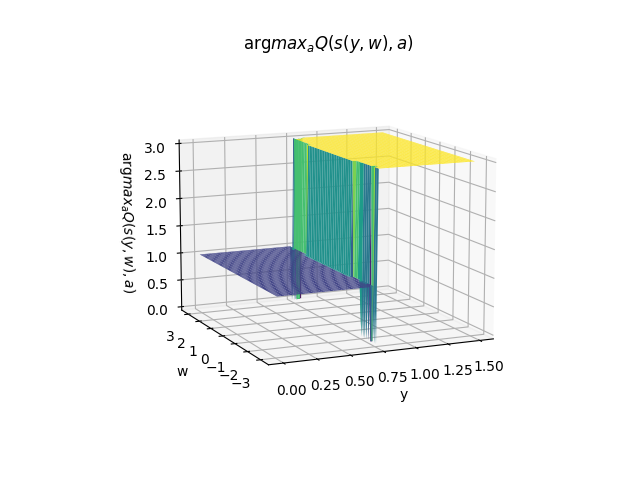
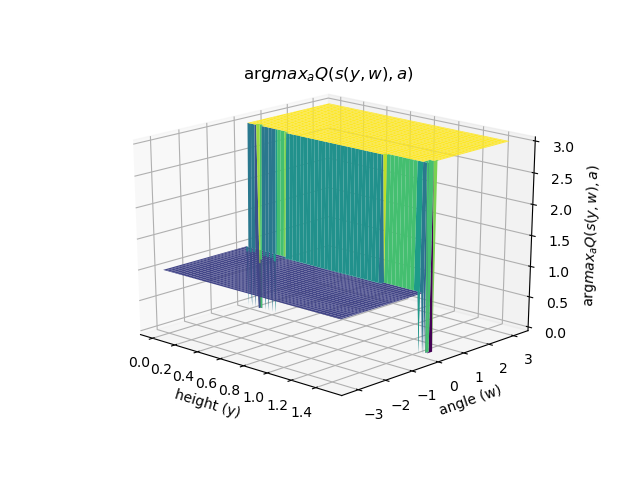
Plots update

diff --git a/lab2/problem1/DQN_solve_tasks.py b/lab2/problem1/DQN_solve_tasks.py
@@ -2,7 +2,7 @@ import numpy as np
 import torch
 import matplotlib.pyplot as plt
 from matplotlib import cm
-
+from mpl_toolkits.mplot3d import Axes3D
 
 def main():
     np.random.seed(1337)
@@ -16,13 +16,14 @@ def main():
             mat[idx, jdx] = model(state).max(0)[1].item()  # Argmax
     fig = plt.figure()
     ax = fig.gca(projection='3d')
-    y, w = np.meshgrid(y, w)
+    y, w = np.meshgrid(y, w, sparse=False, indexing='ij')
     # Plot the surface.
     ax.plot_surface(y, w, mat, cmap='viridis', edgecolor='none')
-    ax.set_xlabel('y')
-    ax.set_ylabel('w')
+    ax.set_xlabel('height (y)')
+    ax.set_ylabel('angle (w)')
     ax.set_zlabel(r'$\argmax_a Q(s(y,w),a)$')
     ax.set_title(r'$\argmax_a Q(s(y,w),a)$')
+    plt.savefig("argmax.png")
     plt.show()
 
     y = np.linspace(0, 1.5, 100)
@@ -34,13 +35,14 @@ def main():
             mat[idx, jdx] = model(state).max(0)[0].item()  # Max
     fig = plt.figure()
     ax = fig.gca(projection='3d')
-    y, w = np.meshgrid(y, w)
+    y, w =  np.meshgrid(y, w, sparse=False, indexing='ij')
     # Plot the surface.
     ax.plot_surface(y, w, mat, cmap=cm.coolwarm, edgecolor='none')
-    ax.set_xlabel('y')
-    ax.set_ylabel('w')
+    ax.set_xlabel('height (y)')
+    ax.set_ylabel('angle (w)')
     ax.set_zlabel(r'$\max_a Q(s(y,w),a)$')
     ax.set_title(r'$\max_a Q(s(y,w),a)$')
+    plt.savefig("max.png")
     plt.show()
 
 

diff --git a/lab2/problem2/DDPG_solve_tasks.py b/lab2/problem2/DDPG_solve_tasks.py
@@ -2,7 +2,7 @@ import numpy as np
 import torch
 import matplotlib.pyplot as plt
 from matplotlib import cm
-
+from mpl_toolkits.mplot3d import Axes3D
 
 def main():
     np.random.seed(1337)
@@ -17,11 +17,11 @@ def main():
             mat[idx, jdx] = model_critic(state, model_actor(state)).item()
     fig = plt.figure()
     ax = fig.gca(projection='3d')
-    y, w = np.meshgrid(y, w)
+    y, w = np.meshgrid(y, w, sparse=False, indexing='ij')
     # Plot the surface.
     ax.plot_surface(y, w, mat, cmap=cm.coolwarm, edgecolor='none')
-    ax.set_xlabel('y')
-    ax.set_ylabel('w')
+    ax.set_xlabel('height (y)')
+    ax.set_ylabel('angle (w)')
     ax.set_zlabel(r'$Q_w(s(y,w),\pi_\theta(s(y,w)))$')
     ax.set_title(r'$Q_w(s(y,w),\pi_\theta(s(y,w)))$')
     plt.show()
@@ -35,11 +35,11 @@ def main():
             mat_actor[idx, jdx] = model_actor(state)[1].item()
     fig = plt.figure()
     ax = fig.gca(projection='3d')
-    y, w = np.meshgrid(y, w)
+    y, w = np.meshgrid(y, w, sparse=False, indexing='ij')
     # Plot the surface.
     ax.plot_surface(y, w, mat_actor, cmap='viridis', edgecolor='none')
-    ax.set_xlabel('y')
-    ax.set_ylabel('w')
+    ax.set_xlabel('height (y)')
+    ax.set_ylabel('angle (w)')
     ax.set_zlabel('Engine Direction')
     ax.set_title(r'$\pi_\theta(s(y,w))_2$')
     plt.show()

diff --git a/lab2/problem3/PPO_solve_tasks.py b/lab2/problem3/PPO_solve_tasks.py
@@ -17,13 +17,13 @@ def main():
             mat[idx, jdx] = model_critic(state).item()
     fig = plt.figure()
     ax = fig.gca(projection='3d')
-    y, w = np.meshgrid(y, w)
+    y, w = np.meshgrid(y, w, sparse=False, indexing='ij')
     # Plot the surface.
     ax.plot_surface(y, w, mat, cmap=cm.coolwarm, edgecolor='none')
-    ax.set_xlabel('y')
-    ax.set_ylabel('w')
-    ax.set_zlabel(r'$Q_w(s(y,w),\pi_\theta(s(y,w)))$')
-    ax.set_title(r'$Q_w(s(y,w),\pi_\theta(s(y,w)))$')
+    ax.set_xlabel('height (y)')
+    ax.set_ylabel('angle (w)')
+    ax.set_zlabel(r'$V_w(s(y,w))$')
+    ax.set_title(r'$V_w(s(y,w))$')
     plt.show()
 
     y = np.linspace(0, 1.5, 100)
@@ -35,13 +35,13 @@ def main():
             mat_actor[idx, jdx] = model_actor(state)[0][1].item()
     fig = plt.figure()
     ax = fig.gca(projection='3d')
-    y, w = np.meshgrid(y, w)
+    y, w = np.meshgrid(y, w, sparse=False, indexing='ij')
     # Plot the surface.
     ax.plot_surface(y, w, mat_actor, cmap='viridis', edgecolor='none')
-    ax.set_xlabel('y')
-    ax.set_ylabel('w')
+    ax.set_xlabel('height (y)')
+    ax.set_ylabel('angle (w)')
     ax.set_zlabel('Engine Direction')
-    ax.set_title(r'$\pi_\theta(s(y,w))_2$')
+    ax.set_title(r'$\mu_\theta(s(y,w))_2$')
     plt.show()
 
 
